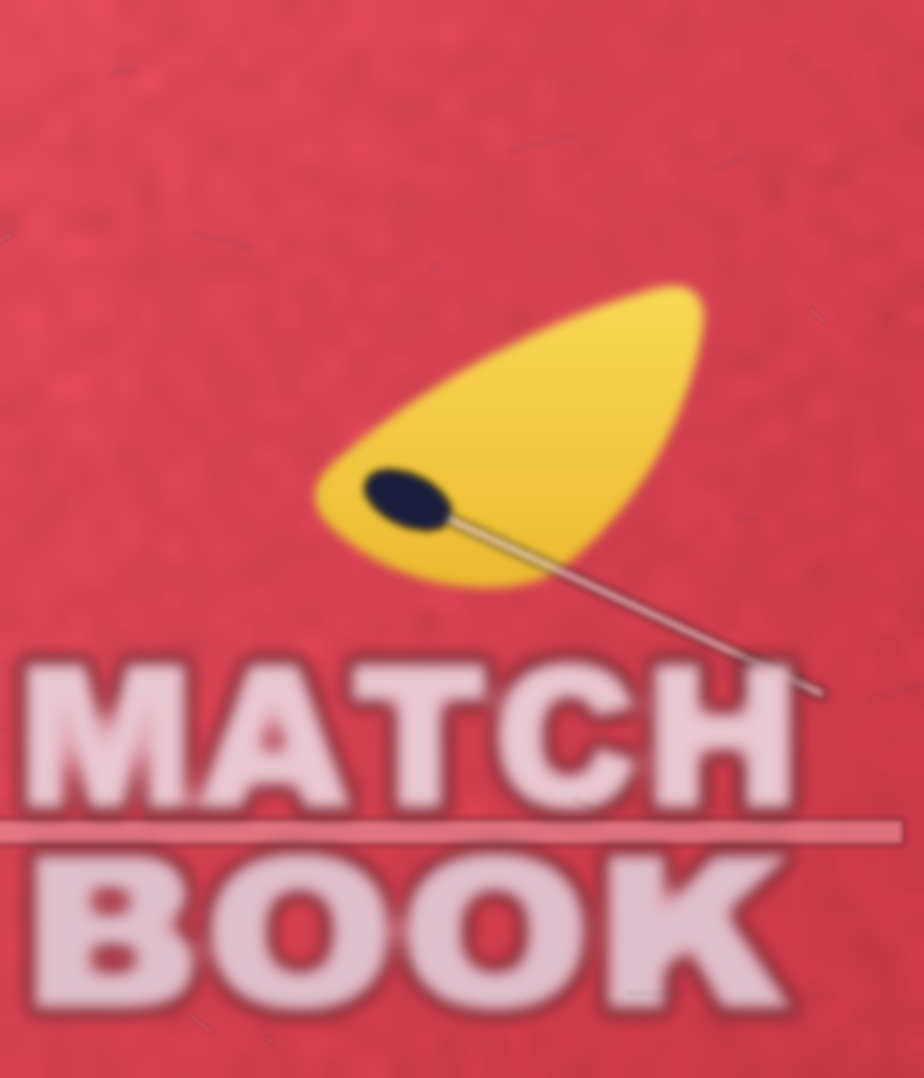
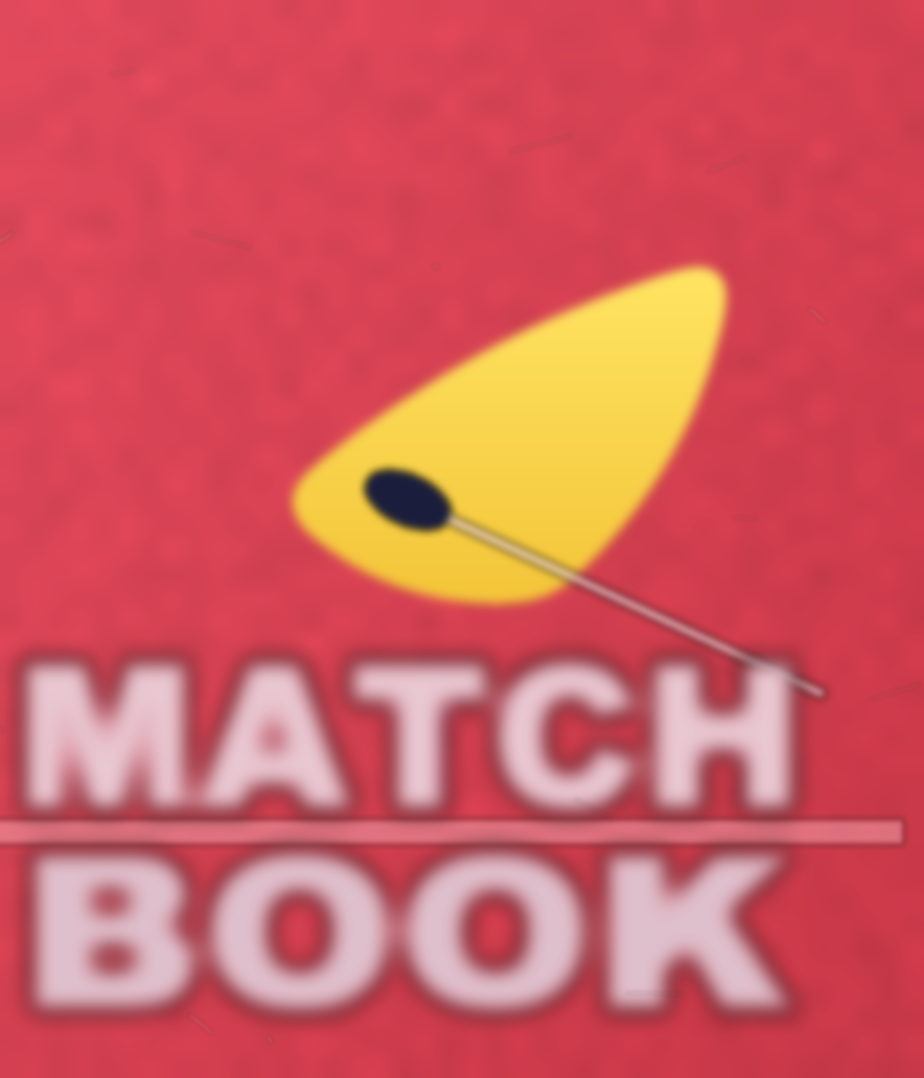
General Store 3D (WIP): wires wrap the stick ends, calmer lighter paper, crumpled dark fold, softer letters, die darker low
Claude-Session: https://claude.ai/code/session_01YTHpn2B3GQv2nWyfBMAwkm

Changed region(s): [[0.303, 0.2449, 0.7879, 0.5816]]

diff --git a/art-samples/buildings-b6/store-v1/store.py b/art-samples/buildings-b6/store-v1/store.py
@@ -631,6 +631,21 @@ def lift(mat, col, strength):
     b.inputs["Emission Strength"].default_value = strength
 
 
+def lift_low(mat, s_low, z0, z1):
+    """The lift (above) fades to s_low at height z0 (up to its full strength at z1): Flash's die darkens low down,
+    and an even glow would wash the grime out."""
+    nt = mat.node_tree
+    b = next(n for n in nt.nodes if n.type == "BSDF_PRINCIPLED")
+    geo = nt.nodes.new("ShaderNodeNewGeometry")
+    sep = nt.nodes.new("ShaderNodeSeparateXYZ")
+    mr = nt.nodes.new("ShaderNodeMapRange")
+    nt.links.new(geo.outputs["Position"], sep.inputs[0])
+    nt.links.new(sep.outputs["Z"], mr.inputs[0])
+    mr.inputs[1].default_value, mr.inputs[2].default_value = z0, z1
+    mr.inputs[3].default_value, mr.inputs[4].default_value = s_low, b.inputs["Emission Strength"].default_value
+    nt.links.new(mr.outputs[0], b.inputs["Emission Strength"])
+
+
 def pip_mat():
     """The pips: grey, shiny round dimples, painted as Flash shades them (dark inside the upper right rim, pale grey low
     on the left, no white), since the sun never reaches the die's right face."""
@@ -650,8 +665,8 @@ def pip_mat():
 
 
 def fold_mat():
-    """The cover's fold round the die's front corner (Flash: a pale crease line where the print ends, then a dark
-    maroon band with darker creases running down it, browner at the top)."""
+    """The cover's fold round the die's front corner (Flash: a strip of the cover's red where the print ends, then a
+    near-black maroon band with darker creases running down it, browner at the top)."""
     t = NT("fold")
     uv = t.n("ShaderNodeUVMap")
     sep = t.n("ShaderNodeSeparateXYZ")
@@ -659,8 +674,8 @@ def fold_mat():
     mr = t.n("ShaderNodeMapRange")                 # across the band: u from 1 (the crease) to FOLD_U1 (its far edge)
     mr.inputs[1].default_value, mr.inputs[2].default_value = 1.0, FOLD_U1
     t.link(sep.outputs["X"], mr.inputs[0])
-    col = t.ramp(mr.outputs[0], [(0.0, srgb(176, 128, 138)), (0.16, srgb(150, 92, 102)), (0.3, srgb(104, 40, 46)),
-                                 (0.55, srgb(78, 24, 30)), (0.8, srgb(92, 30, 34)), (1.0, srgb(70, 20, 24))])
+    col = t.ramp(mr.outputs[0], [(0.0, srgb(198, 70, 82)), (0.18, srgb(182, 56, 68)), (0.3, srgb(96, 34, 32)),
+                                 (0.55, srgb(64, 22, 22)), (0.8, srgb(80, 28, 26)), (1.0, srgb(58, 18, 18))])
     # creases: a few soft dark lines running down the band
     cr = t.noise(t.coords(scale=(4.0, 4.0, 0.25)), 2.0, 2.0, 0.4, 0.2)
     col = t.mix(col, srgb(44, 12, 16), t.ramp(cr, [(0.58, (0, 0, 0, 1)), (0.7, (0.7, 0.7, 0.7, 1))]))
@@ -683,6 +698,7 @@ def materials():
                      side=0.25)
     M["pip"] = pip_mat()
     lift(M["die"], (156, 72, 58), 0.55)
+    lift_low(M["die"], 0.1, S.DIE_Z0 + 0.3, S.DIE_Z0 + 2.4)
     M["cover"] = printed("cover", HERE / "matchbook.png")
     M["coverback"] = painted("coverback", (190, 56, 66), rough=0.7, wear=(170, 48, 58), dirt=0.3)
     M["striker"] = fold_mat()
@@ -696,16 +712,16 @@ def materials():
                                dirt=0.1, grain=0.4, scale=3)
     # the strap: a dark tip, tan at its left end, white in the middle, yellow over the right edge (world X)
     M["strap"] = along("strap", [(0.0, (110, 64, 36)), (0.05, (180, 118, 72)), (0.14, (196, 140, 92)),
-                                 (0.28, (226, 186, 140)), (0.41, (252, 248, 244)), (0.74, (250, 244, 236)),
-                                 (0.86, (236, 176, 48)), (1.0, (224, 160, 36))],
+                                 (0.28, (226, 186, 140)), (0.41, (252, 248, 244)), (0.66, (250, 244, 236)),
+                                 (0.76, (236, 176, 48)), (1.0, (224, 160, 36))],
                        axis="X", lo=-2.62, hi=S.DIE_A + 0.1, space="Object", rough=0.45, spec=0.45, dirt=0.1)
     lift(M["strap"], (120, 96, 60), 0.5)
-    M["paper"] = along("paper", [(0.0, (222, 142, 138)), (0.5, (216, 130, 128)), (1.0, (206, 118, 120))], axis="Y",
-                       rough=0.8, spec=0.2, dirt=0.05, wear=(250, 226, 222), scale=2.2)
+    M["paper"] = along("paper", [(0.0, (238, 168, 162)), (0.5, (232, 156, 152)), (1.0, (222, 144, 142))], axis="Y",
+                       rough=0.8, spec=0.2, dirt=0.05, wear=(248, 212, 206), scale=2.2)      # Flash's light pink
     # thumbtacks: Flash's bright old gold discs, dark brass pins
     M["tack"] = shiny("tack", (214, 166, 40), rough=0.3, metal=0.6, side=0.4, wear=(196, 130, 34), scale=2.0,
                       dirt=0.25, coat=0.2, spec=0.4)
-    # Flash's front and right discs are a darker, browner old gold than the left one
+    # Flash's front disc is a darker, browner old gold than the others
     M["tackdark"] = shiny("tackdark", (176, 118, 36), rough=0.35, metal=0.6, side=0.4, wear=(130, 84, 26), scale=2.0,
                           dirt=0.3, coat=0.15, spec=0.35)
     M["pin"] = shiny("pin", (176, 132, 60), rough=0.35, metal=0.8, wear=(130, 96, 44), scale=4, dirt=0.05)
@@ -724,9 +740,9 @@ def mb_path():
     o = rc + S.MB_GAP
     cx, cy = A - rc, -A + rc
     path = [(S.MB_X0 + (cx - S.MB_X0) * i / 24, cy - o) for i in range(25)]
-    for k in range(1, 9):
-        a = math.radians(-90 + 45 * k / 8)
-        r = o + 0.1 * k / 8
+    for k in range(1, 17):
+        a = math.radians(-90 + 45 * k / 16)
+        r = o + 0.1 * k / 16
         path.append((cx + r * math.cos(a), cy + r * math.sin(a)))
     ls = sum(math.dist(p, q) for p, q in zip(path, path[1:]))
     return path, (S.MB_X1 - S.MB_X0) / ls
@@ -783,7 +799,7 @@ def die():
     return d
 
 
-def sheet(name, path, z0, z1, nz, mats, split, thick=0.05, warp=0.0, flare=0.0):
+def sheet(name, path, z0, z1, nz, mats, split, thick=0.05, warp=0.0, flare=0.0, crumple=0.0):
     """Thin card standing on the XY path (a list of (x, y)), from z0(s) to z1 (s = 0..1 along the path), UV over the
     whole of it; faces past path fraction `split` take the second material. warp: a gentle wave out of its plane."""
     pts = [Vector((x, y)) for x, y in path]
@@ -805,6 +821,9 @@ def sheet(name, path, z0, z1, nz, mats, split, thick=0.05, warp=0.0, flare=0.0):
             z = za + (z1 - za) * f
             w = warp * (math.sin(7.0 * s + 2.0 * f) * 0.5 + math.sin(3.1 * f * math.pi) * 0.6) if warp else 0.0
             w += flare * (1.0 - f) ** 2 * min(1.0, max(0.0, (split + 0.06 - s) / 0.08))   # the bottom hangs away
+            if s > split:                     # the fold crumples low down
+                u = (s - split) / (1.0 - split)
+                w += crumple * math.sin(u * 19.0 + 0.4) * max(0.0, 1.0 - f * 3.0) ** 2
             q = p + nrm * w
             col.append(bm.verts.new((q.x, q.y, z)))
         rows.append((s, col))
@@ -829,10 +848,14 @@ def matchbook():
     path, split = mb_path()
 
     def z0(s):          # the bottom edge: lowest at the left, rising toward the front, highest under the fold
-        return S.MB_Z0 + S.MB_RISE * min(1.0, s / 0.68) + max(0.0, s - split + 0.04) * 1.5
+        z = S.MB_Z0 + S.MB_RISE * min(1.0, s / 0.68) + max(0.0, s - split + 0.04) * 1.5
+        u = (s - split) / (1.0 - split)                  # across the fold: its bottom edge is crumpled, not straight
+        if u > 0.0:
+            z += 0.16 * math.sin(u * 17.0 + 0.6) * math.sin(u * 5.3 + 1.1) - 0.12 * math.sin(u * math.pi)
+        return z
 
     ob = sheet("mbcover", path, z0, S.MB_Z1, 24, [M["cover"], M["striker"]], split, thick=0.05, warp=0.025,
-               flare=S.MB_FLARE)
+               flare=S.MB_FLARE, crumple=0.05)
     # the print sits on the outside; the solidify's inner skin (toward the die) is the same card
     return ob
 
@@ -841,7 +864,7 @@ def tacks():
     prof = [(0.0, S.TACK_T + 0.05), (S.TACK_R * 0.5, S.TACK_T + 0.035), (S.TACK_R - 0.05, S.TACK_T),
             (S.TACK_R, S.TACK_T - 0.04), (S.TACK_R, 0.02), (S.TACK_R - 0.03, 0.0), (0.0, 0.0)]
     for i, ((gx, gy), top) in enumerate(S.TACKS):
-        lathe(f"tack{i}", prof, (gx, gy, GROUND), M["tackdark"] if i in (0, 2) else M["tack"], verts=48)
+        lathe(f"tack{i}", prof, (gx, gy, GROUND), M["tackdark"] if i == 0 else M["tack"], verts=48)
         lathe(f"tackboss{i}", [(0.0, 0.04), (0.05, 0.035), (0.068, 0.0)], (gx, gy, S.TACK_T + 0.02),
               M["tack"], verts=24)
         a = Vector((gx, gy, S.TACK_T + 0.03))
@@ -929,9 +952,9 @@ def paper():
     rr = random.Random(77)
     # an irregular torn edge: a slow wander of broad lobes and dips, and a few narrow torn flaps of differing size
     ph = [rr.uniform(0, 6.3) for _ in range(3)]
-    tips = [0.2 * math.sin(0.4 * k + ph[0]) + 0.1 * math.sin(1.1 * k + ph[1]) + 0.05 * math.sin(2.9 * k + ph[2]) +
-            rr.uniform(-0.035, 0.035) for k in range(nx + 1)]
-    for k, hgt in ((5, 0.1), (17, 0.12), (33, 0.1)):
+    tips = [0.17 * math.sin(0.4 * k + ph[0]) + 0.05 * math.sin(1.1 * k + ph[1]) + 0.025 * math.sin(2.9 * k + ph[2]) +
+            rr.uniform(-0.02, 0.02) for k in range(nx + 1)]
+    for k, hgt in ((5, 0.06), (17, 0.07), (33, 0.05)):      # a few small torn flaps (Flash's edge is lumpy, not spiky)
         tips[k] += hgt
     for j in range(ny + 1):
         fy = j / ny
@@ -943,6 +966,7 @@ def paper():
             yf = S.STRAP_Y - S.STRAP_W / 2 + 0.06        # its front edge under the strap
             yy = yf + (y1 - yf) * fy + tips[i] * 0.6 * edge
             fr = max(0.0, (yy - yb) / (y1 - yb))          # flat under the strap, crumpled and curled up behind it
+            fr *= 1.0 - 0.45 * min(1.0, max(0.0, (fx - 0.78) / 0.22)) ** 2     # lower toward its right end (Flash)
             z = (S.ZSTICK + 0.015 + 0.07 * math.sin(9 * fx + 3 * fy) * fr + 0.6 * fr ** 1.5 + tips[i] * 0.45 * edge +
                  rr.uniform(-0.02, 0.02) * fr) + lift(x)
             row.append(bm.verts.new((x, yy, z)))
@@ -976,20 +1000,50 @@ def paper():
     return ob
 
 
+def stick_end(i):
+    """Stick i's middle x, the middle of its rounded front end (y) and its turn (as sticks() lays them)."""
+    n, w = S.STICK_N, S.STICK_W
+    gap = (S.STICK_X1 - S.STICK_X0 - n * w) / (n - 1)
+    jit = ((0.0, 0.0, 0.15), (-0.06, 0.05, -0.15), (0.05, -0.04, 0.2), (0.1, 0.02, -0.3))
+    return S.STICK_X0 + w / 2 + i * (w + gap), S.STICK_Y0 + jit[i][0] + w / 2, jit[i][2]
+
+
+def hug(i, a0, a1, z0, z1, n=10, out=0.05):
+    """Points round stick i's rounded front end, just off its rim, from angle a0 to a1 (degrees; 180 = its left side,
+    270 = its tip), height going from z0 to z1: Flash's wires wrap tight round the stick ends."""
+    cx, cy, rz = stick_end(i)
+    r = S.STICK_W / 2
+    c, s_ = math.cos(math.radians(rz)), math.sin(math.radians(rz))
+    pts = []
+    for k in range(n + 1):
+        t = k / n
+        a = math.radians(a0 + (a1 - a0) * t)
+        x, y = (r + out) * math.cos(a), cy + (r * 0.9 + out) * math.sin(a)
+        pts.append((cx + x * c - y * s_, x * s_ + y * c, z0 + (z1 - z0) * t))   # turned with the stick (about x, 0)
+    return pts
+
+
 def wires():
-    """Two grey wires lying along the gaps between the sticks; the first hooks down over the stick ends, the second
-    turns across the front sticks' ends and hooks round the front one."""
+    """Two grey wires lying along the gaps between the sticks, each wrapping tight round a stick's rounded end and
+    tucking under it (Flash's hook round the ends; nothing hangs in the air)."""
     n, w = S.STICK_N, S.STICK_W
     gap = (S.STICK_X1 - S.STICK_X0 - n * w) / (n - 1)
     z = S.ZSTICK + 0.056                       # resting on the sticks (they sit 0.006 up)
+    zm = ZT + 0.006 + S.STICK_T / 2            # half way up a stick's edge
+    zu = ZT - 0.045                            # just under the stick
     xa = S.STICK_X0 + w + gap / 2
-    y0 = S.STICK_Y0
-    tube("wireA", [(xa, 0.36, z - 0.02), (xa, 0.22, z), (xa, -1.0, z), (xa, y0 + 0.3, z), (xa, y0 + 0.06, z - 0.03),
-                   (xa, y0 - 0.04, z - 0.12), (xa, y0 - 0.05, z - 0.2)], 0.045, M["wire2"], verts=8, smooth=True)
+    cy1 = stick_end(1)[1]
+    pa = [(xa, 0.36, z - 0.02), (xa, 0.22, z), (xa, -1.0, z), (xa, cy1 + 0.3, z)]
+    pa += hug(1, 190, 268, z - 0.02, zm, 8)
+    cx1 = stick_end(1)[0]
+    pa += [(cx1 + 0.06, cy1 - 0.9 * w / 2 - 0.06, zu), (cx1 + 0.16, cy1 - 0.9 * w / 2 + 0.16, zu - 0.01)]
+    tube("wireA", pa, 0.045, M["wire2"], verts=8, smooth=True)
     xb = xa + 2 * (w + gap)
-    tube("wireB", [(xb, 0.36, z - 0.02), (xb, 0.22, z), (xb, -1.5, z), (xb + 0.1, y0 + 1.0, z), (xb + 0.4, y0 + 0.55, z),
-                   (1.95, y0 + 0.35, z), (1.98, y0 + 0.2, z + 0.005), (2.0, y0 + 0.04, z - 0.03), (2.0, y0 - 0.04, z - 0.12),
-                   (2.0, y0 - 0.06, z - 0.2)], 0.045, M["wire2"], verts=8, smooth=True)
+    cx3, cy3, _ = stick_end(3)
+    pb = [(xb, 0.36, z - 0.02), (xb, 0.22, z), (xb, -1.5, z), (xb, cy3 + 0.3, z)]
+    pb += hug(3, 200, 270, z - 0.01, zm, 8, out=0.06)       # (stick 2 leans toward it: wider of the rim)
+    pb += [(cx3 + 0.08, cy3 - 0.9 * w / 2 - 0.06, zu), (cx3 + 0.18, cy3 - 0.9 * w / 2 + 0.16, zu - 0.01)]
+    tube("wireB", pb, 0.045, M["wire2"], verts=8, smooth=True)
 
 
 def build():

diff --git a/art-samples/buildings-b6/store-v1/crops.py b/art-samples/buildings-b6/store-v1/crops.py
@@ -1,6 +1,7 @@
 """crops.py : Flash beside 3D, one area enlarged, at the same scale (both on grass).
 
-    python crops.py <render.png> <name> x0 y0 x1 y1 [zoom]   -> work/crop-<name>.png
+    python crops.py <render.png> <name> x0 y0 x1 y1 [zoom] [above]   -> work/crop-<name>.png
+(with "above": Flash above the 3D instead of beside it)
 Coordinates are Flash px around the origin (fref.FRAME); the render covers FRAME at any whole K px per Flash px.
 """
 import sys
@@ -10,7 +11,7 @@ import fref
 GRASS = (96, 140, 60)
 
 
-def crop(render, x0, y0, x1, y1, zoom=8):
+def crop(render, x0, y0, x1, y1, zoom=8, above=False):
     fx, fy = fref.FRAME[:2]
     r = Image.open(render).convert("RGBA")
     k = r.width // (fref.FRAME[2] - fref.FRAME[0])
@@ -22,19 +23,20 @@ def crop(render, x0, y0, x1, y1, zoom=8):
         bg = Image.new("RGBA", (w, h), GRASS + (255,))
         bg.alpha_composite(im)
         out.append(bg.convert("RGB"))
-    sheet = Image.new("RGB", (2 * w + 30, h + 40), (24, 24, 24))
+    sheet = Image.new("RGB", (w + 20, 2 * h + 80) if above else (2 * w + 30, h + 40), (24, 24, 24))
     d = ImageDraw.Draw(sheet)
     try:
         fnt = ImageFont.truetype("arialbd.ttf", 22)
     except OSError:
         fnt = ImageFont.load_default()
     for i, (im, lab) in enumerate(zip(out, ("Flash", "3D"))):
-        sheet.paste(im, (10 + i * (w + 10), 35))
-        d.text((14 + i * (w + 10), 6), lab, fill=(255, 255, 255), font=fnt)
+        x, y = (10, 35 + i * (h + 40)) if above else (10 + i * (w + 10), 35)
+        sheet.paste(im, (x, y))
+        d.text((x + 4, y - 29), lab, fill=(255, 255, 255), font=fnt)
     return sheet
 
 
 if __name__ == "__main__":
     a = sys.argv
     z = int(a[7]) if len(a) > 7 else 8
-    crop(a[1], *map(int, a[3:7]), zoom=z).save(f"work/crop-{a[2]}.png")
+    crop(a[1], *map(int, a[3:7]), zoom=z, above="above" in a[8:]).save(f"work/crop-{a[2]}.png")

diff --git a/art-samples/buildings-b6/store-v1/mbtex.py b/art-samples/buildings-b6/store-v1/mbtex.py
@@ -64,7 +64,7 @@ def main():
     # the flame: Flash's flat yellow "guitar pick": a rounded triangle, its top side running up to the right, its point
     # down (corners in world units round its middle, from the Flash picture)
     cx, cy = -0.45, 3.55
-    corners = [(-1.08, -0.3), (0.98, 0.8), (0.16, -0.74)]
+    corners = [(-1.2, -0.33), (1.1, 0.9), (0.18, -0.83)]     # Flash's pick is a little bigger
     bulge = (0.16, 0.2, 0.2)          # how far each side (corner k to k+1) bows outward
     pts = []
     for k in range(3):
@@ -84,7 +84,7 @@ def main():
     fl = fl.filter(ImageFilter.GaussianBlur(5))
     ys, xs = np.mgrid[0:H, 0:W].astype(float)
     g = ((ys - ty(cy + 0.8)) / (ty(cy - 0.8) - ty(cy + 0.8))).clip(0, 1)[..., None]      # paler at the top
-    fc = np.array((250, 218, 86), float) * (1 - g) + np.array((236, 186, 48), float) * g
+    fc = np.array((255, 228, 98), float) * (1 - g) + np.array((244, 198, 58), float) * g
     flame = Image.fromarray(fc.astype(np.uint8)).convert("RGBA")
     flame.putalpha(fl)
     img.alpha_composite(flame)
@@ -108,7 +108,7 @@ def main():
     t = Image.new("RGBA", img.size, (0, 0, 0, 0))
     text_fit(t, "MATCH", (tx(-3.0), ty(2.45), tx(1.05), ty(1.62)), (232, 200, 210, 255), (222, 146, 160, 255), 6)
     text_fit(t, "BOOK", (tx(-2.98), ty(1.5), tx(0.98), ty(0.62)), (222, 192, 204, 255), (222, 146, 160, 255), 6)
-    img.alpha_composite(t.filter(ImageFilter.GaussianBlur(8)))
+    img.alpha_composite(t.filter(ImageFilter.GaussianBlur(10)))
 
     # worn: a few pale scuffs and creases
     wr = random.Random(5)

diff --git a/art-samples/buildings-b6/store-v1/stack.py b/art-samples/buildings-b6/store-v1/stack.py
@@ -41,7 +41,7 @@ TACK_R, TACK_T = 0.72, 0.1
 
 # the popsicle sticks on top
 STICK_N, STICK_W, STICK_T = 4, 1.25, 0.09
-STICK_X0, STICK_X1 = -2.95, 2.42   # side by side across this span: over the left face they reach the cover's edge
+STICK_X0, STICK_X1 = -2.78, 2.42   # side by side across this span: over the left face they reach the cover's edge
 STICK_Y0, STICK_Y1 = -4.0, 2.85
 
 # the strap across the back of the sticks, and the paper behind it
